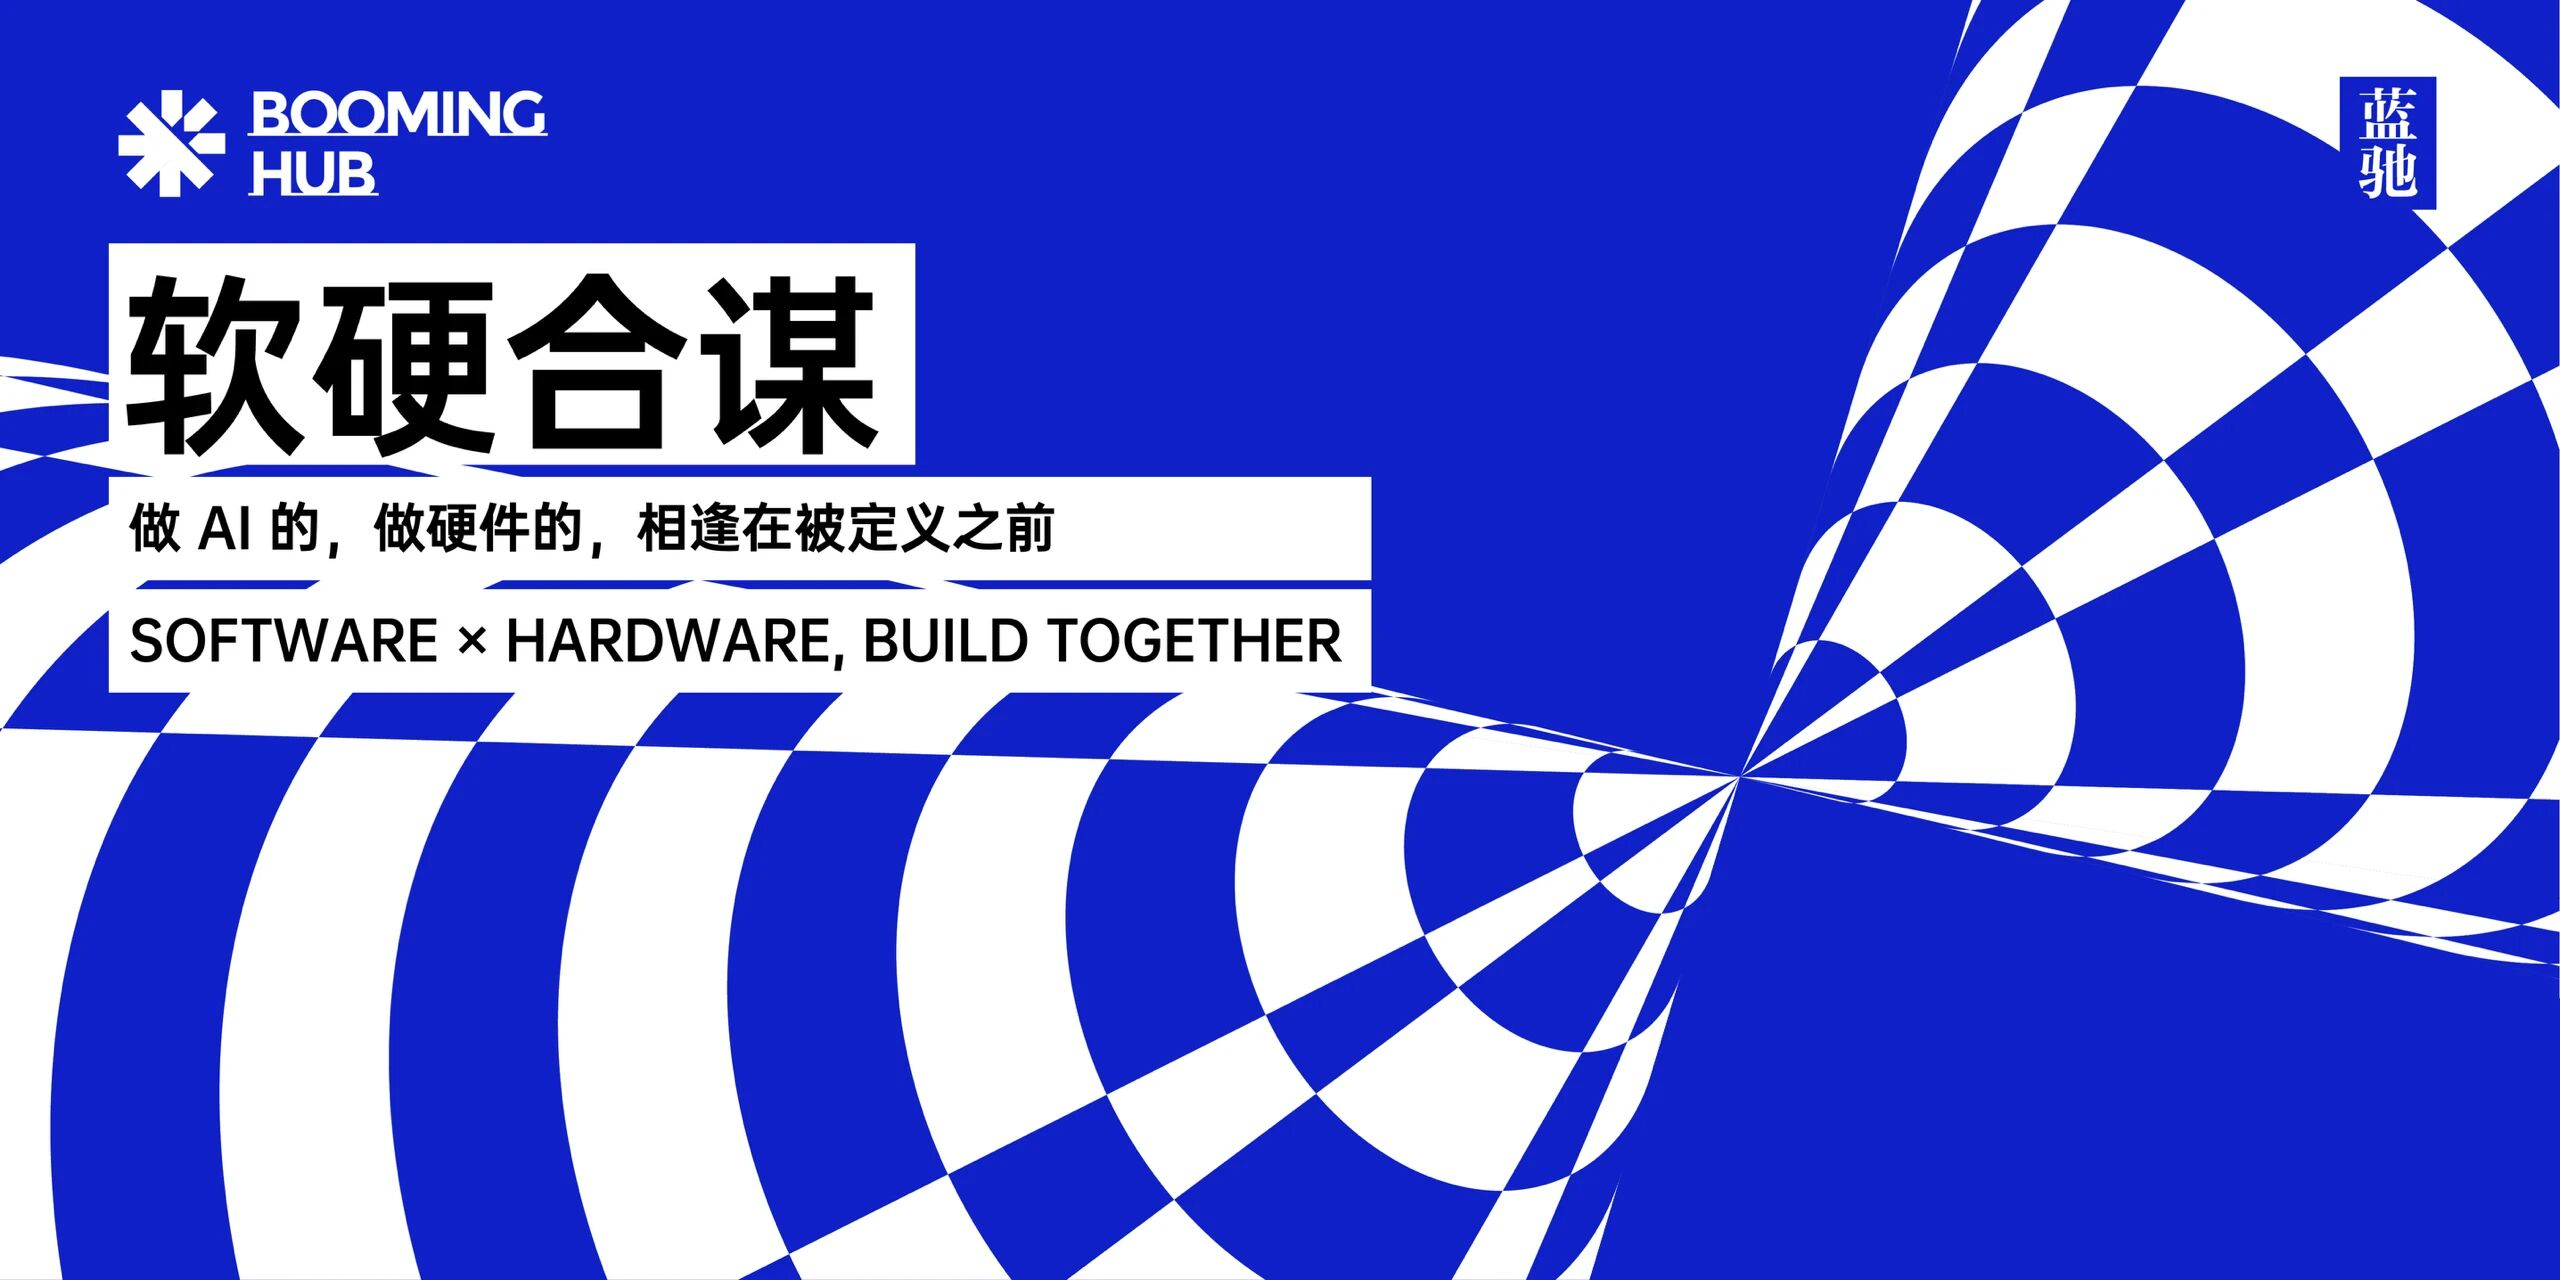
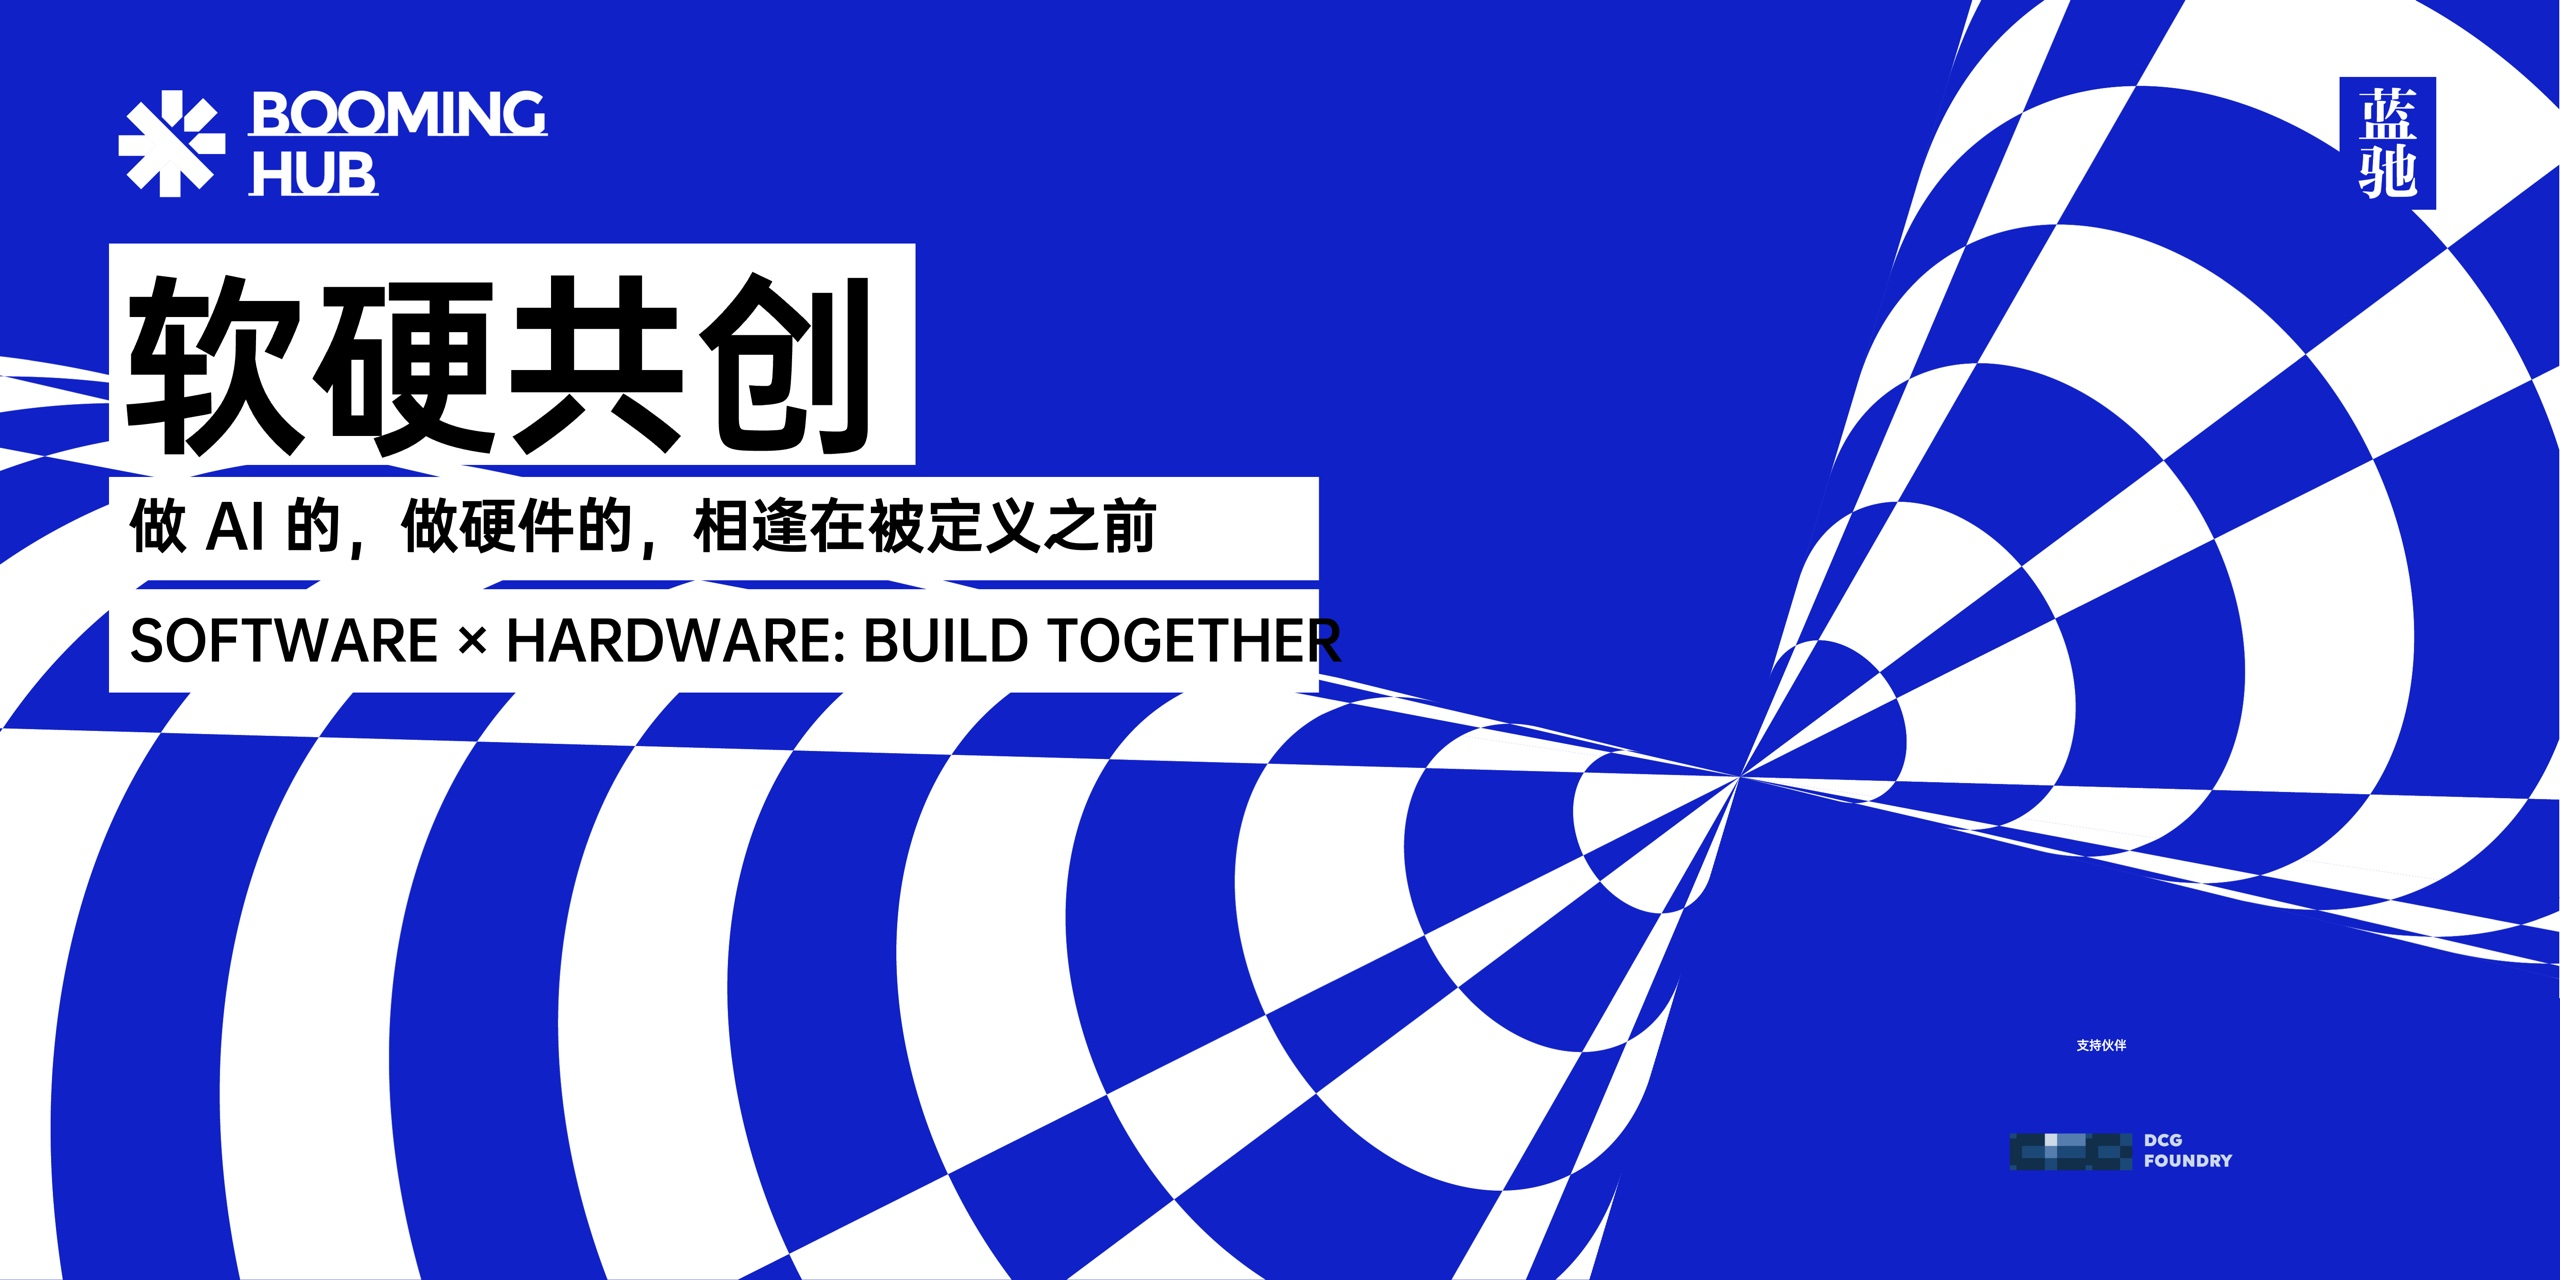
Use current co-creation poster artwork

diff --git a/index.html b/index.html
@@ -29,7 +29,7 @@
     <article>
       <h1 class="title">做 AI 的，做硬件的，来一次软硬合谋｜Booming Hub 深圳招募</h1>
       <div class="meta">2026年9月 · <strong>蓝驰创投</strong></div>
-      <img class="hero" src="assets/wechat-latest-hero.jpg" alt="软硬合谋主视觉" data-image-review-id="image-01">
+      <img class="hero" src="assets/wechat-latest-hero.jpg" alt="软硬共创主视觉" data-image-review-id="image-01">
 
       <p>2024 年 12 月，第一场 Booming Hub 在深圳落地。</p>
       <p>飞行相机、智能割草机、AI 眼镜、AI 玩具……8 位创业者和行业观察者，与 130 多位参与者一起讨论：</p>
@@ -68,7 +68,7 @@
 
       <div class="divider"></div>
       <h2>📍活动信息</h2>
-      <div class="info"><p><strong>活动主题｜</strong>软硬合谋：寻找 AI×硬件的真需求与真场景</p><p><strong>活动日期｜</strong>9 月 18 日（周五）</p><p><strong>活动时间｜</strong>14:00</p><p><strong>活动地点｜</strong>深圳，具体场地待确认</p><p><strong>活动规模｜</strong>30 余人</p><p><strong>参与方式｜</strong>报名需经审核</p></div>
+      <div class="info"><p><strong>活动主题｜</strong>软硬合谋：寻找 AI×硬件的真需求与真场景</p><p><strong>活动日期｜</strong>9 月 18 日（周五）</p><p><strong>活动时间｜</strong>19:00–22:00</p><p><strong>活动地点｜</strong>深圳，具体场地待确认</p><p><strong>活动规模｜</strong>30 余人</p><p><strong>参与方式｜</strong>报名需经审核</p></div>
       <p>如果你有一项擅长的能力、一个正在思考的产品方向，或者一个希望与软硬件伙伴共同拆解的真实问题，欢迎提交申请。</p>
       <p>由于现场规模有限，我们将结合申请者的实践经历、专业能力、关注方向与参与诉求进行筛选和分桌。</p>
       <p><strong>👇扫码或点击“阅读原文”提交申请，期待与你在深圳见面。</strong></p>
@@ -364,27 +364,62 @@
       await navigator.clipboard.write([new ClipboardItem({'text/html': new Blob([html], {type:'text/html'}), 'text/plain': new Blob([text], {type:'text/plain'})})]);
       statusBox.textContent = '正文已复制，可粘贴到公众号后台';
     });
+    function applyPosterRecord(record, targetId) {
+      if (!record?.blob) throw new Error('missing poster');
+      const item = imageBlocks.find(entry => entry.id === (targetId || record.slot));
+      if (!item) throw new Error('missing slot');
+      item.image.src = URL.createObjectURL(record.blob);
+      item.image.dataset.bridgeId = record.id || '';
+      item.image.alt = record.posterName || item.image.alt;
+      item.shell.classList.remove('is-image-deleted');
+      renderChanges();
+      statusBox.textContent = `已从海报工作台同步「${record.posterName}」，可预览并复制整篇`;
+    }
     async function applyIncomingPoster() {
       const params = new URLSearchParams(location.search);
       const bridgeId = params.get('posterBridge');
       if (!bridgeId || isSharedView) return;
       try {
         const record = await readPosterBridge(bridgeId);
-        if (!record?.blob) throw new Error('missing poster');
-        const targetId = params.get('slot') || record.slot;
-        const item = imageBlocks.find(entry => entry.id === targetId);
-        if (!item) throw new Error('missing slot');
-        item.image.src = URL.createObjectURL(record.blob);
-        item.image.dataset.bridgeId = bridgeId;
-        item.image.alt = record.posterName || item.image.alt;
-        item.shell.classList.remove('is-image-deleted');
-        renderChanges();
-        statusBox.textContent = `已从海报工作台同步「${record.posterName}」，可预览并复制整篇`;
+        applyPosterRecord(record, params.get('slot'));
       } catch {
         statusBox.textContent = '没有找到这张海报；请在同一浏览器重新点击“同步到公众号稿”';
       }
     }
+    function acceptPosterTransfer() {
+      const params = new URLSearchParams(location.search);
+      const token = params.get('posterTransfer');
+      const sourceOrigin = params.get('sourceOrigin');
+      if (!token || !sourceOrigin || !window.opener || isSharedView) return;
+      const allowedOrigins = new Set([
+        'https://booming-poster-studio.voyayueliang.chatgpt.site',
+        'https://voyayueliang.github.io',
+        'http://localhost:3000',
+        'http://127.0.0.1:3000'
+      ]);
+      if (!allowedOrigins.has(sourceOrigin)) {
+        statusBox.textContent = '海报来源未获允许，请从正式海报编辑台重新同步';
+        return;
+      }
+      const handleTransfer = event => {
+        if (
+          event.source !== window.opener ||
+          event.origin !== sourceOrigin ||
+          event.data?.type !== 'booming-poster-transfer' ||
+          event.data?.token !== token
+        ) return;
+        window.removeEventListener('message', handleTransfer);
+        try {
+          applyPosterRecord(event.data.record, params.get('slot') || event.data.slot);
+        } catch {
+          statusBox.textContent = '海报已传入，但没有找到对应的公众号图片位置';
+        }
+      };
+      window.addEventListener('message', handleTransfer);
+      window.opener.postMessage({ type: 'booming-poster-ready', token }, sourceOrigin);
+    }
     void applyIncomingPoster();
+    acceptPosterTransfer();
   </script>
 </body>
 </html>
